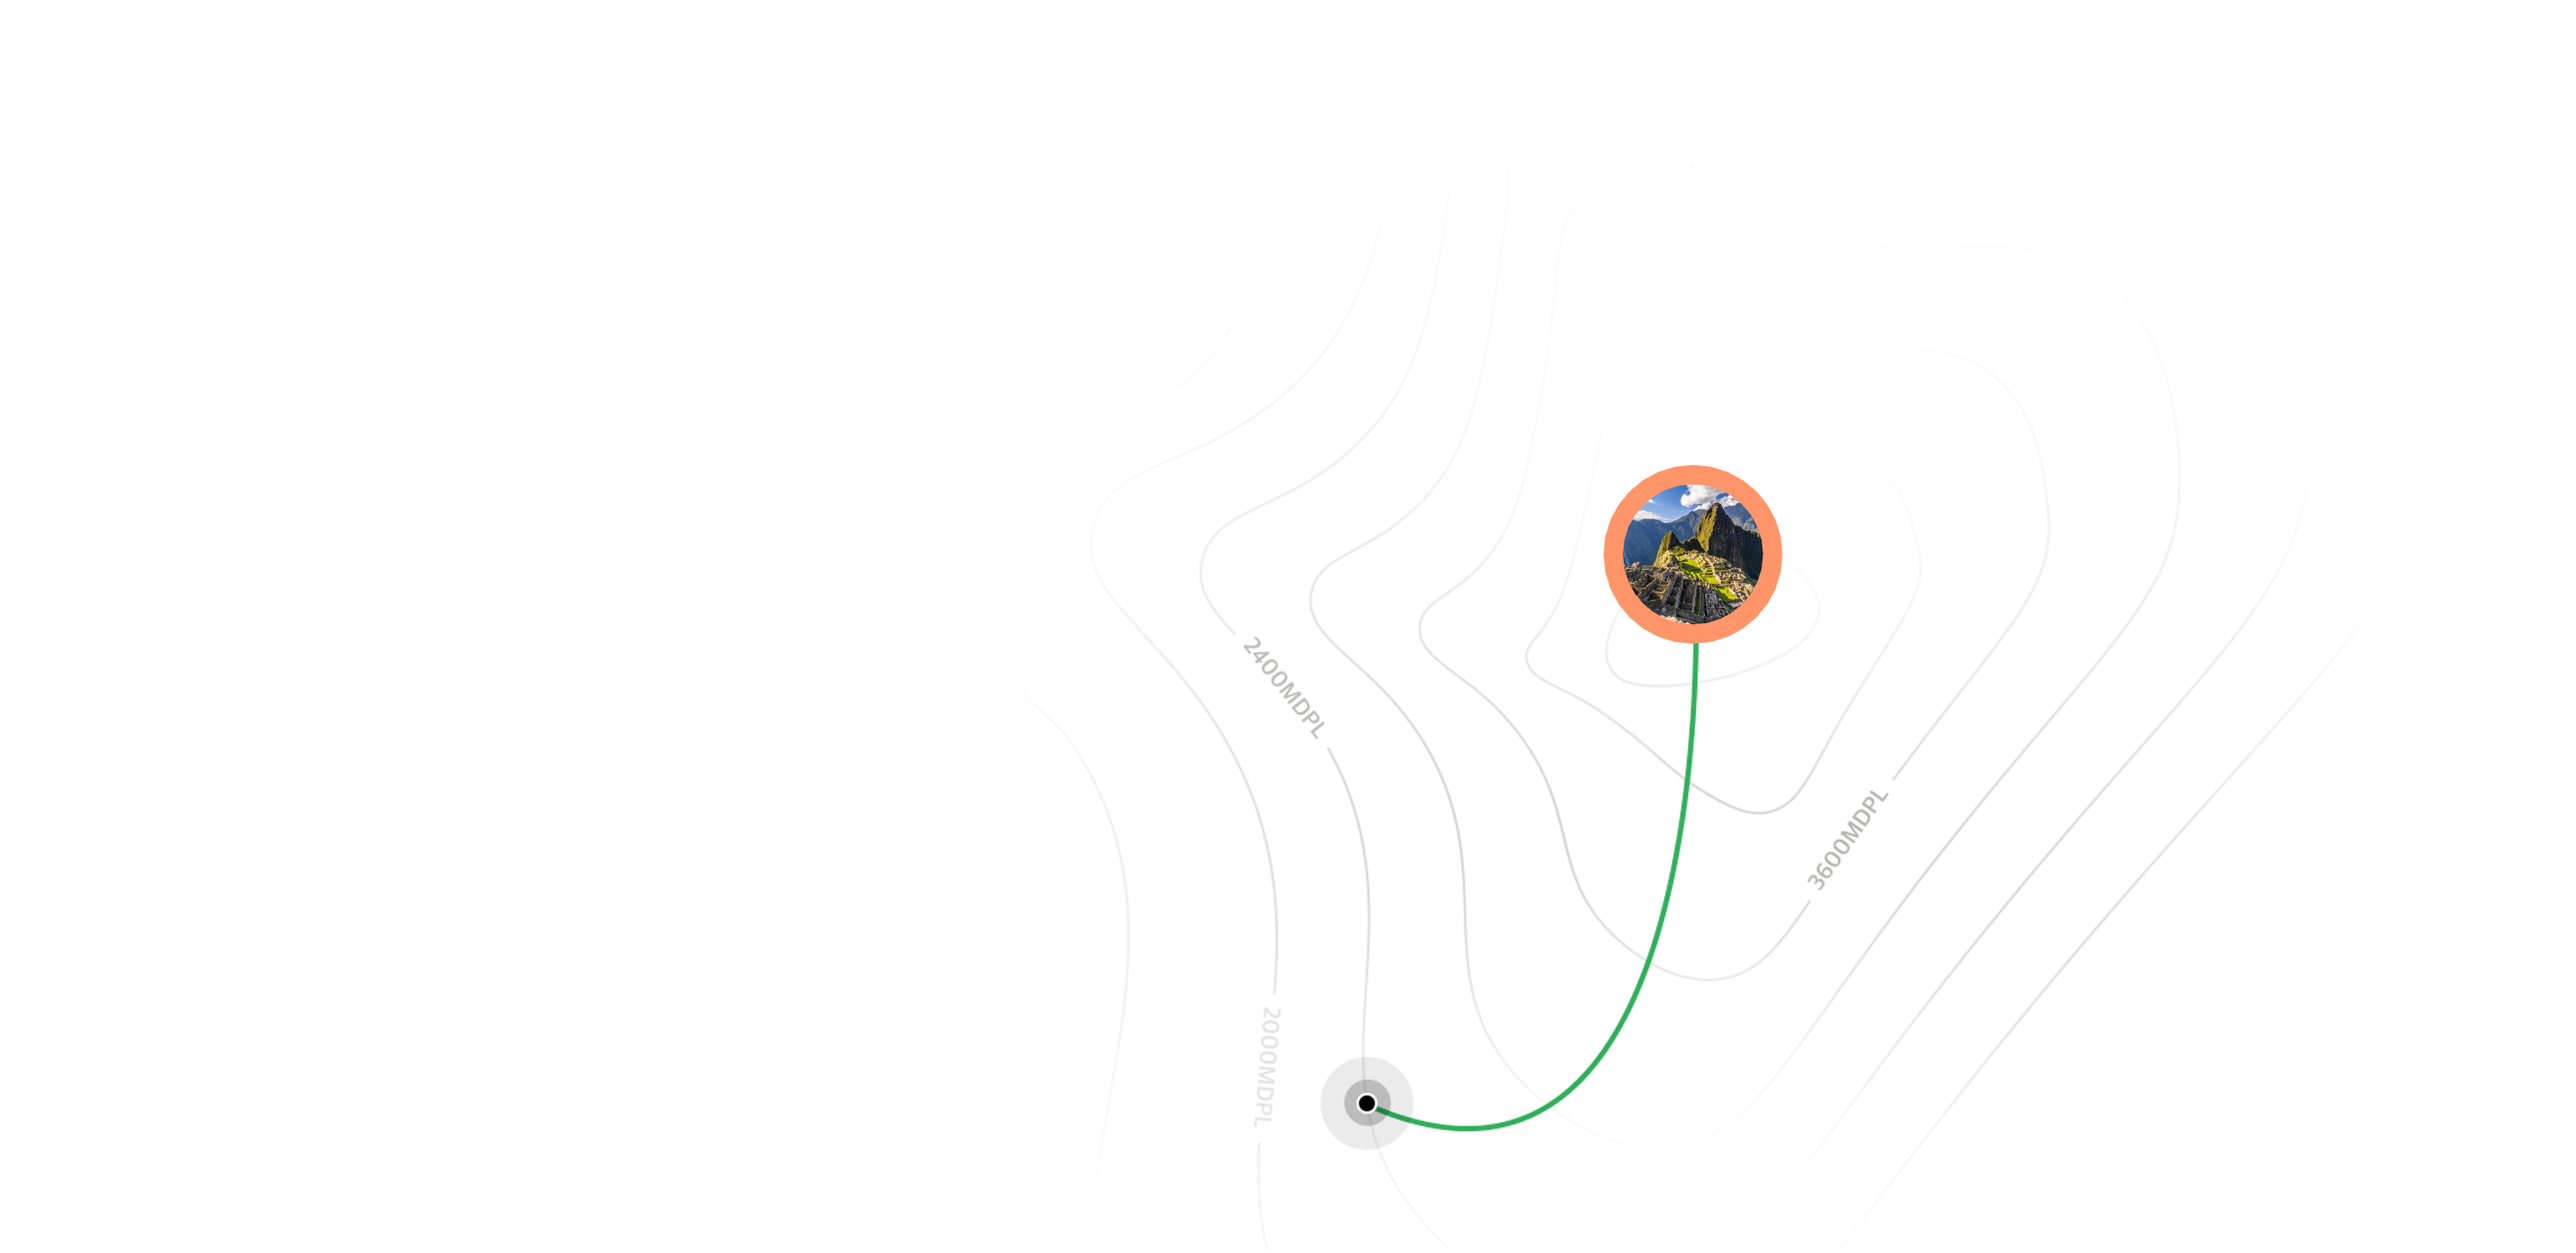
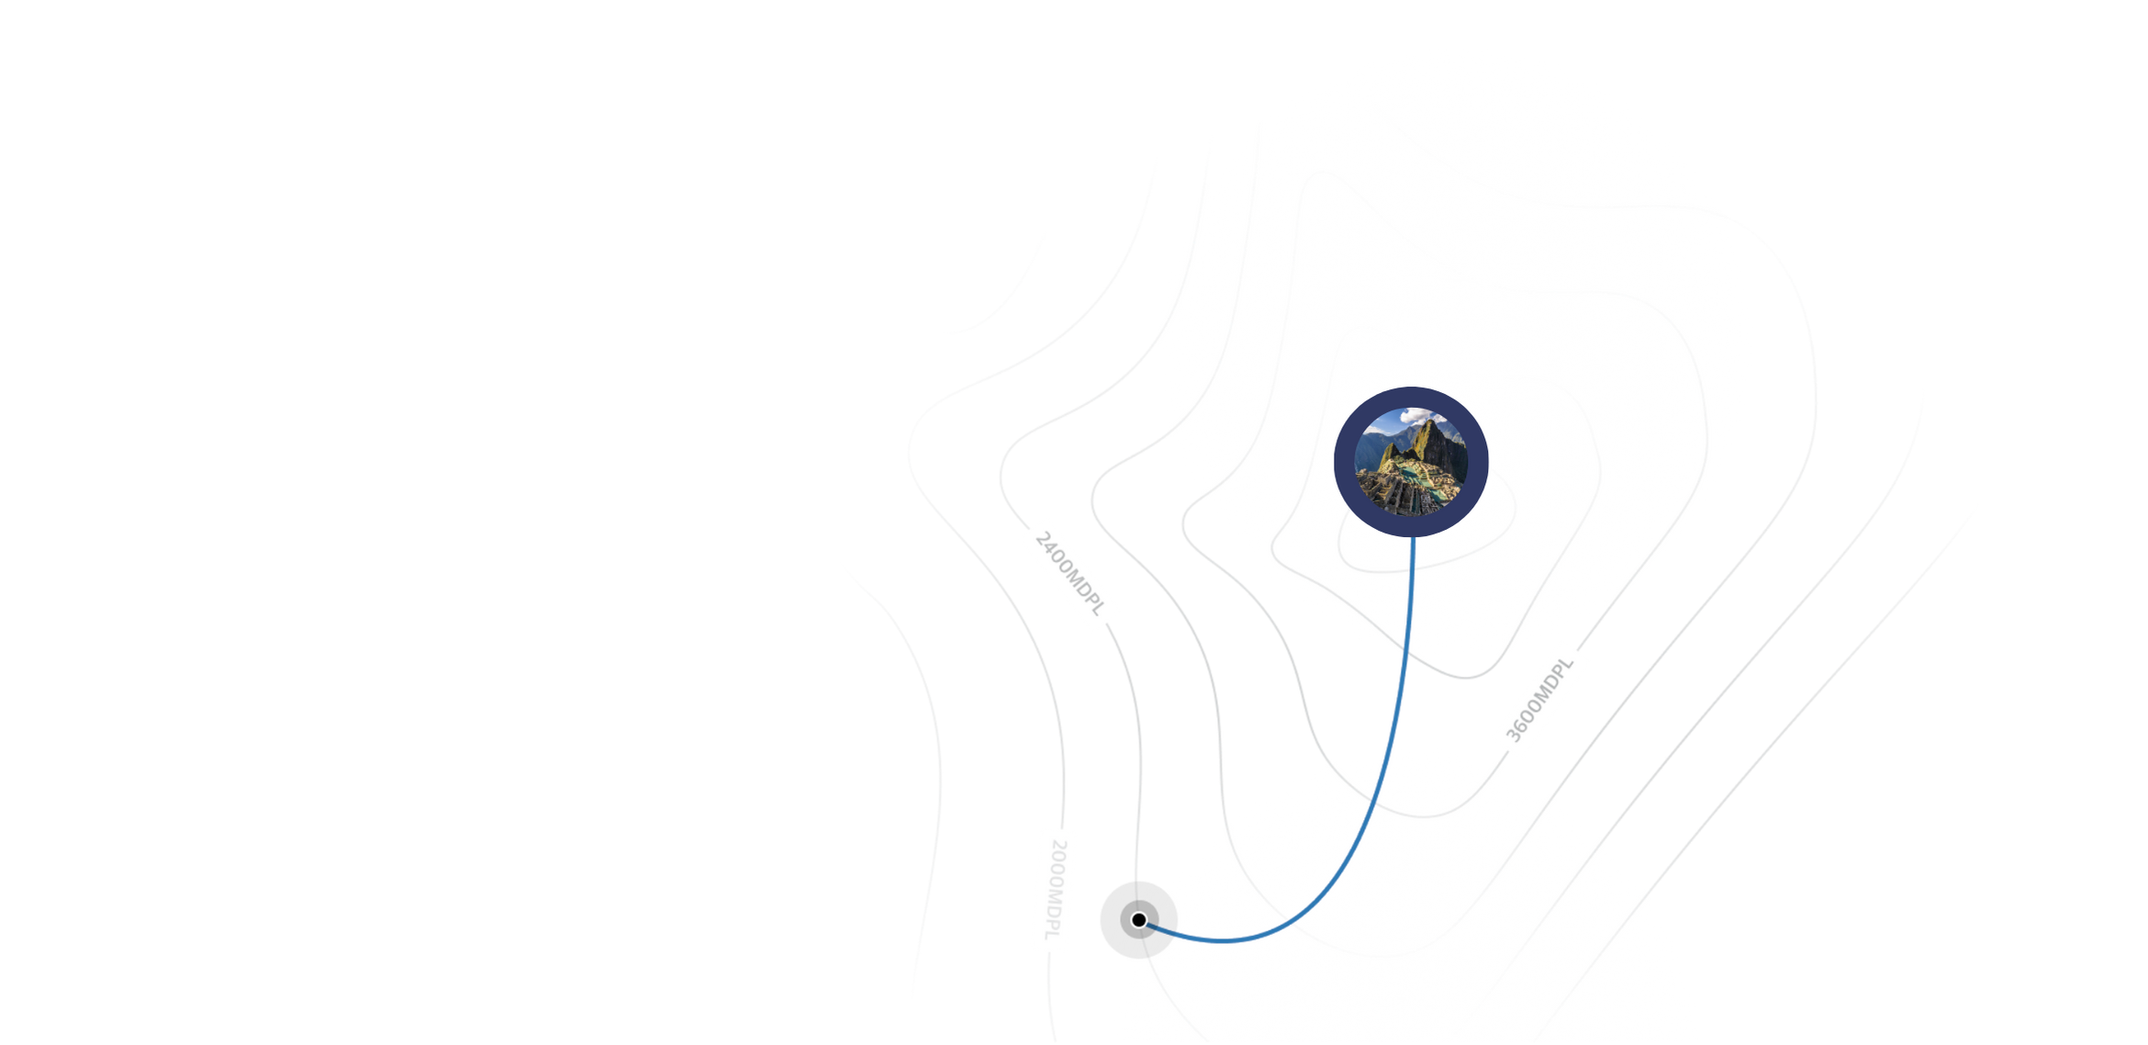
Cambios

diff --git a/components/GetApp.tsx b/components/GetApp.tsx
@@ -17,18 +17,18 @@ const GetApp = () => {
               <input
                 type="text"
                 placeholder="Nombre completo"
-                className="regular-16 p-4 border border-gray-300 rounded-lg focus:outline-none focus:border-green-500"
+                className="regular-16 p-4 border border-gray-300 rounded-lg focus:outline-none focus:border-green-50"
                 required
               />
               
               <input
                 type="email"
                 placeholder="Correo electrónico"
-                className="regular-16 p-4 border border-gray-300 rounded-lg focus:outline-none focus:border-green-500"
+                className="regular-16 p-4 border border-gray-300 rounded-lg focus:outline-none focus:border-green-50"
                 required
               />
               
-              <select className="regular-16 p-4 border border-gray-300 rounded-lg focus:outline-none focus:border-green-500" required>
+              <select className="regular-16 p-4 border border-gray-300 rounded-lg focus:outline-none focus:border-green-50" required>
                 <option value="">Destino de interés</option>
                 <option value="europa">Europa</option>
                 <option value="asia">Asia</option>
@@ -40,7 +40,7 @@ const GetApp = () => {
               <input
                 type="date"
                 placeholder="Fecha de viaje"
-                className="regular-16 p-4 border border-gray-300 rounded-lg focus:outline-none focus:border-green-500"
+                className="regular-16 p-4 border border-gray-300 rounded-lg focus:outline-none focus:border-green-50"
                 required
               />
               

diff --git a/components/Guide.tsx b/components/Guide.tsx
@@ -11,7 +11,7 @@ const Guide = () => {
         </p>
         <div className="flex flex-wrap justify-between gap-5 lg:gap-10">
           <h2 className="bold-40 lg:bold-64 xl:max-w-[390px]">Te Guiamos al Destino Perfecto</h2>
-          <p className="regular-16 text-gray-30 xl:max-w-[520px]">Con TravelToday nunca más te sentirás perdido planificando tus vacaciones. Ofrecemos itinerarios personalizados y soporte completo. Invita a tus amigos y familia a vivir experiencias increíbles alrededor del mundo.</p>
+          <p className="regular-16 text-gray-30 xl:max-w-[520px]">Con Viaje x Viaje nunca más te sentirás perdido planificando tus vacaciones. Ofrecemos itinerarios personalizados y soporte completo. Invita a tus amigos y familia a vivir experiencias increíbles alrededor del mundo.</p>
         </div>
       </div>
 

diff --git a/app/layout.tsx b/app/layout.tsx
@@ -5,8 +5,8 @@ import Navbar from '@/components/Navbar';
 import Footer from '@/components/Footer';
 
 export const metadata: Metadata = {
-  title: 'TravelToday - Tu Agencia de Viajes',
-  description: 'TravelToday - Descubre destinos increíbles y vive experiencias únicas con nuestra agencia de viajes',
+  title: 'Viaje x Viaje - Tu Agencia de Viajes',
+  description: 'Viaje x Viaje - Descubre destinos increíbles y vive experiencias únicas con nuestra agencia de viajes',
 }
 
 export default function RootLayout({

diff --git a/constants/index.ts b/constants/index.ts
@@ -52,7 +52,7 @@ export const FOOTER_LINKS = [
   {
     title: 'Conoce Más',
     links: [
-      'Acerca de TravelToday',
+      'Acerca de Viaje x Viaje',
       'Noticias',
       'Turismo Sostenible',
       'Trabaja con Nosotros',
@@ -70,7 +70,7 @@ export const FOOTER_CONTACT_INFO = {
   title: 'Contáctanos',
   links: [
     { label: 'Teléfono', value: '+34 912 345 678' },
-    { label: 'Email', value: 'info@traveltoday.com' },
+    { label: 'Email', value: 'info@viajexviaje.com' },
   ],
 };
 

diff --git a/components/Footer.tsx b/components/Footer.tsx
@@ -59,7 +59,7 @@ const Footer = () => {
         </div>
 
         <div className="border bg-gray-20" />
-        <p className="regular-14 w-full text-center text-gray-30">2024 TravelToday | Todos los derechos reservados</p>
+        <p className="regular-14 w-full text-center text-gray-30">2024 Viaje x Viaje | Todos los derechos reservados</p>
       </div>
     </footer>
   )

diff --git a/tailwind.config.ts b/tailwind.config.ts
@@ -9,8 +9,8 @@ module.exports = {
     extend: {
       colors: {
         green: {
-          50: '#30AF5B',
-          90: '#292C27',
+          50: '#00538B', // Blue color instead of green
+          90: '#003d66', // Darker blue color instead of dark green
         },
         gray: {
           10: '#EEEEEE',

diff --git a/app/cruceros/page.tsx b/app/cruceros/page.tsx
@@ -18,7 +18,7 @@ export default function CrucerosPage() {
             alt="Cruceros"
             width={800}
             height={500}
-            className="rounded-2xl shadow-2xl shadow-green-500/30"
+            className="rounded-2xl shadow-2xl shadow-green-50/30"
           />
         </div>
 
